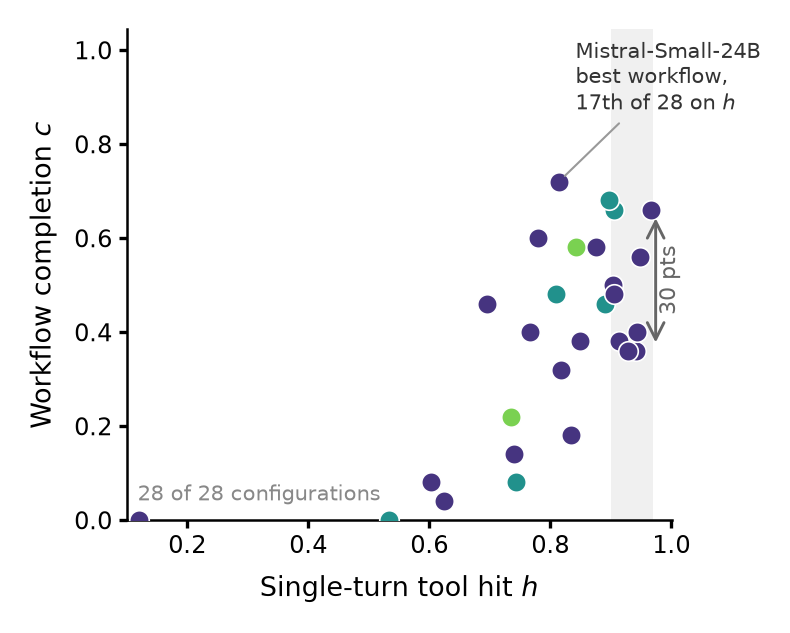
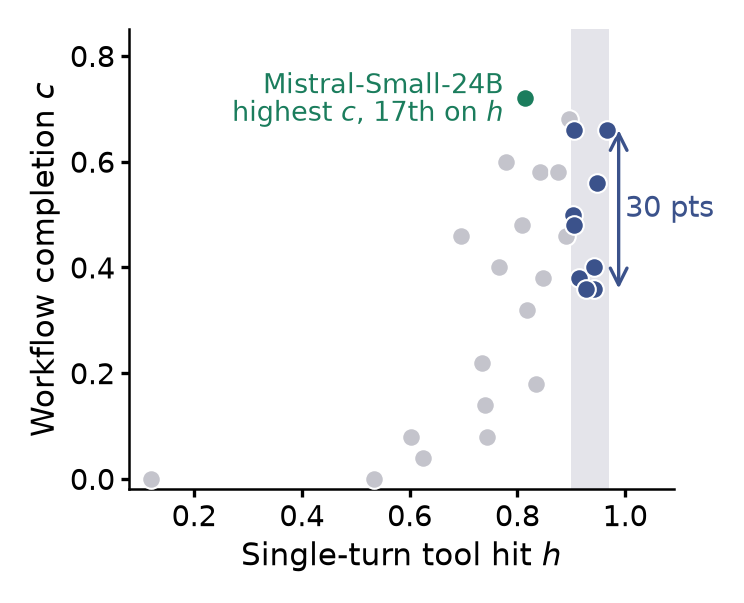
figures: the teaser says its two claims with colour instead of a legend it lacked
The points were coloured by model group with no legend, so the colour could
not be read and carried nothing the figure argues. Colour now carries the two
claims: the nine configurations in the seven-point band are dark blue, and the
30-point arrow and its label share that blue; Mistral-Small-24B, which
completes the most workflows at 17th on h, is green and so is its label, placed
beside the point; the rest are grey. The green is darkened to 5.1:1 contrast on
white for a 6.5 pt label.

"28 of 28 configurations" carried no information and is gone. Type is 6.5-7.5
pt instead of 5-6.5, the y axis stops at 0.85 instead of leaving a third of the
plot empty, and the figure is drawn at the wrapfigure's width so nothing is
scaled. The docstring's "six points" becomes the seven the paper uses.

Claude-Session: https://claude.ai/code/session_01SV9keZjffkrjNC4HuNDkyD

Changed region(s): [[0.0309, 0.0299, 0.9583, 0.9552], [0.6183, 0.597, 0.6801, 0.7761], [0.5874, 0.4478, 0.6492, 0.5075]]

diff --git a/_experiments/scripts/generate_teaser.py b/_experiments/scripts/generate_teaser.py
@@ -4,9 +4,9 @@ The figure carries the result the paper leads with: single-turn tool accuracy
 does not predict workflow completion.
 
 One point per scored configuration. The shaded band marks the configurations
-within six points of one another on single-turn tool hit, whose completion rates
-still span thirty points; that band is the claim, so it is drawn rather than
-described.
+within seven points of one another on single-turn tool hit, whose completion
+rates still span thirty points; that band is the claim, so it is drawn rather
+than described.
 
     python -m _experiments.scripts.generate_teaser
 """
@@ -32,14 +32,17 @@ FIG = _install_figure_out()
 BAND_LOW, BAND_HIGH = 0.90, 0.97
 import matplotlib as _mpl  # 그림 전체가 viridis 한 계열에서 색을 뽑는다
 _VIR = _mpl.colormaps["viridis"]
-# 세 그룹을 viridis 위에서 충분히 떨어뜨려 뽑는다. 흑백 인쇄에서도 명도 순서가
-# 유지되도록 어두운 쪽부터 General, Korean, Finance 순으로 둔다.
-GROUP_COLOR = {"General-Purpose": _VIR(0.15), "Korean-Specialized": _VIR(0.50),
-               "Finance-Specialized": _VIR(0.80)}
-# One label only. At 2.1 inches three model names of this length cannot sit near
-# their points without covering others, and the band and the arrow already carry
-# the claim. The one worth naming is the configuration that completes the most
-# workflows while sitting in the lower half on single-turn tool hit (17th of 28).
+# Colour carries the two claims, so the figure needs no legend. The configurations
+# in the band are drawn dark blue and the 30-point arrow and its label share that
+# colour; the configuration that completes the most workflows is green, and so is
+# its label; everything else is grey context. The green is viridis(0.62) darkened
+# to 5.1:1 contrast on white so its label stays legible at 6.5 pt; the blue is
+# 7.6:1. The three also keep distinct lightness in greyscale print.
+BAND_COLOUR = _VIR(0.25)
+LEADER_COLOUR = "#1b7d5d"
+OTHER_COLOUR = "#C4C4CC"
+# The one configuration named in the figure: it completes the most workflows while
+# sitting in the lower half on single-turn tool hit (17th of 28).
 LABELLED = "mistral-small"
 
 
@@ -60,40 +63,44 @@ def main() -> int:
     missing = load.missing()
     absent = missing.loc[~missing["single"], "config_id"].tolist()
 
-    fig, ax = plt.subplots(figsize=(2.5, 2.0))
-    ax.axvspan(BAND_LOW, BAND_HIGH, color="#BBBBBB", alpha=0.22, linewidth=0, zorder=1)
+    # Drawn 1:1 for the 0.45\\textwidth wrapfigure (about 179 pt), so the type sizes
+    # above are the sizes on the page.
+    fig, ax = plt.subplots(figsize=(2.37, 1.9))
+    ax.axvspan(BAND_LOW, BAND_HIGH, color="#E4E4EA", linewidth=0, zorder=1)
+    ranked = sorted(rows, key=lambda r: -r[1])
     for config_id, h, c, label, group in rows:
-        ax.scatter(h, c, s=22, zorder=3, linewidths=0.4, edgecolors="white",
-                   color=GROUP_COLOR.get(group, "#888888"))
+        inside = BAND_LOW <= h <= BAND_HIGH
+        colour = LEADER_COLOUR if config_id == LABELLED else BAND_COLOUR if inside else OTHER_COLOUR
+        ax.scatter(h, c, s=20, zorder=4 if colour != OTHER_COLOUR else 3, linewidths=0.5,
+                   edgecolors="white", color=colour)
     for config_id, h, c, label, group in rows:
         if config_id != LABELLED:
             continue
-        ax.annotate(f"{label}\nbest workflow,\n17th of {len(rows)} on $h$", (h, c),
-                    textcoords="offset points", xytext=(4, 16), ha="left", va="bottom",
-                    fontsize=5.0, color="#333333", linespacing=1.25,
-                    arrowprops=dict(arrowstyle="-", color="#999999", linewidth=0.5,
-                                    shrinkA=0, shrinkB=2))
+        rank = [r[0] for r in ranked].index(config_id) + 1
+        ax.annotate(f"{label}\nhighest $c$, {rank}th on $h$", (h, c),
+                    textcoords="offset points", xytext=(-5, 0), ha="right", va="center",
+                    fontsize=6.5, color=LEADER_COLOUR, linespacing=1.15)
 
     band = [r for r in rows if BAND_LOW <= r[1] <= BAND_HIGH]
     if band:
         low, high = min(r[2] for r in band), max(r[2] for r in band)
-        ax.annotate("", xy=(BAND_HIGH + 0.004, low), xytext=(BAND_HIGH + 0.004, high),
-                    arrowprops=dict(arrowstyle="<->", color="#666666", linewidth=0.7))
-        ax.text(BAND_HIGH + 0.009, (low + high) / 2, f"{100 * (high - low):.0f} pts",
-                fontsize=5.2, rotation=90, va="center", ha="left", color="#666666")
+        x = BAND_HIGH + 0.018
+        ax.annotate("", xy=(x, low), xytext=(x, high),
+                    arrowprops=dict(arrowstyle="<->", color=BAND_COLOUR, linewidth=0.8,
+                                    shrinkA=0, shrinkB=0))
+        ax.text(x + 0.012, (low + high) / 2, f"{100 * (high - low):.0f} pts",
+                fontsize=7, va="center", ha="left", color=BAND_COLOUR)
 
-    ax.set_xlabel("Single-turn tool hit $h$", fontsize=6.5)
-    ax.set_ylabel("Workflow completion $c$", fontsize=6.5)
-    ax.tick_params(labelsize=5.8, length=2, pad=1.5)
-    ax.set_xlim(min(r[1] for r in rows) - 0.02, max(r[1] for r in rows) + 0.035)
-    ax.set_ylim(0, max(r[2] for r in rows) * 1.45)
+    ax.set_xlabel("Single-turn tool hit $h$", fontsize=7.5, labelpad=2)
+    ax.set_ylabel("Workflow completion $c$", fontsize=7.5, labelpad=2)
+    ax.tick_params(labelsize=7, length=2, pad=1.5)
+    ax.set_xlim(min(r[1] for r in rows) - 0.04, 1.09)
+    ax.set_xticks([0.2, 0.4, 0.6, 0.8, 1.0])
+    ax.set_ylim(-0.02, 0.85)
+    ax.set_yticks([0, 0.2, 0.4, 0.6, 0.8])
     ax.spines[["top", "right"]].set_visible(False)
     for spine in ax.spines.values():
         spine.set_linewidth(0.6)
-    # Inside the axes at the foot: a title here would sit under the annotation.
-    ax.text(0.02, 0.03, f"{len(rows)} of {len(missing)} configurations",
-            transform=ax.transAxes, fontsize=5.0, color="#888888",
-            ha="left", va="bottom")
     fig.tight_layout(pad=0.3)
     for suffix in ("pdf", "png"):
         fig.savefig(FIG / f"fig_teaser_single_vs_workflow.{suffix}", dpi=300,
